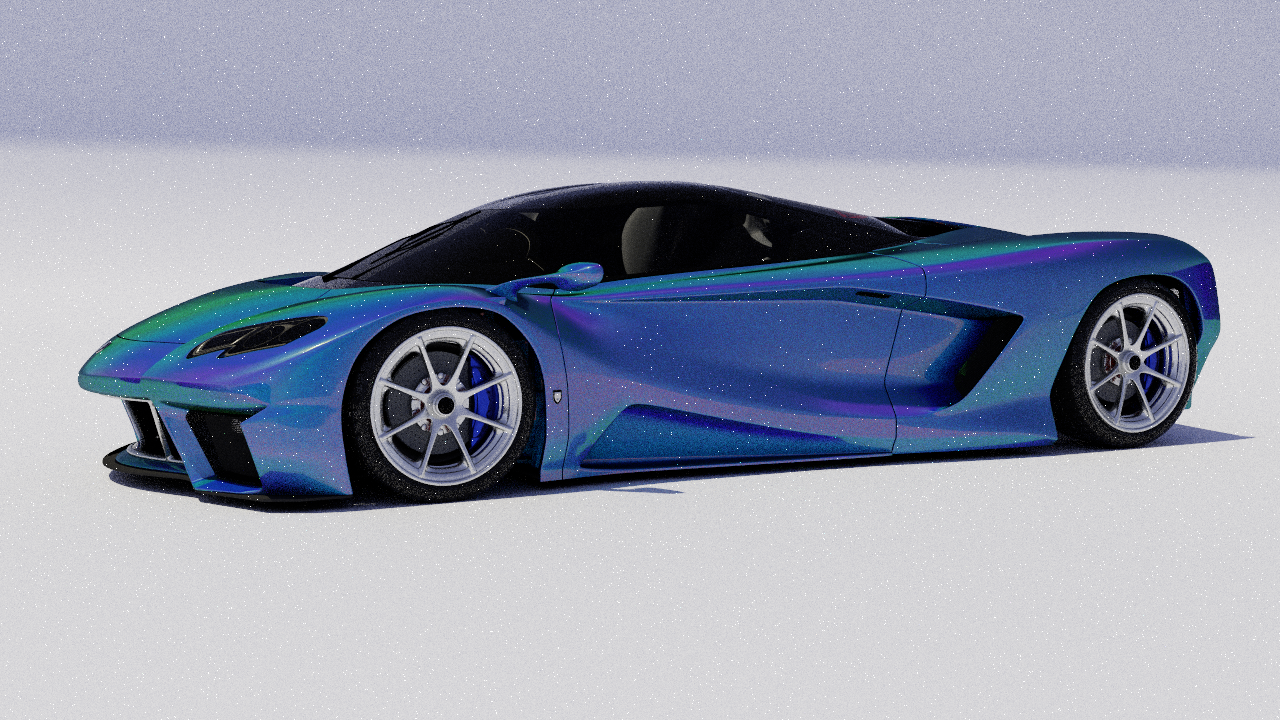
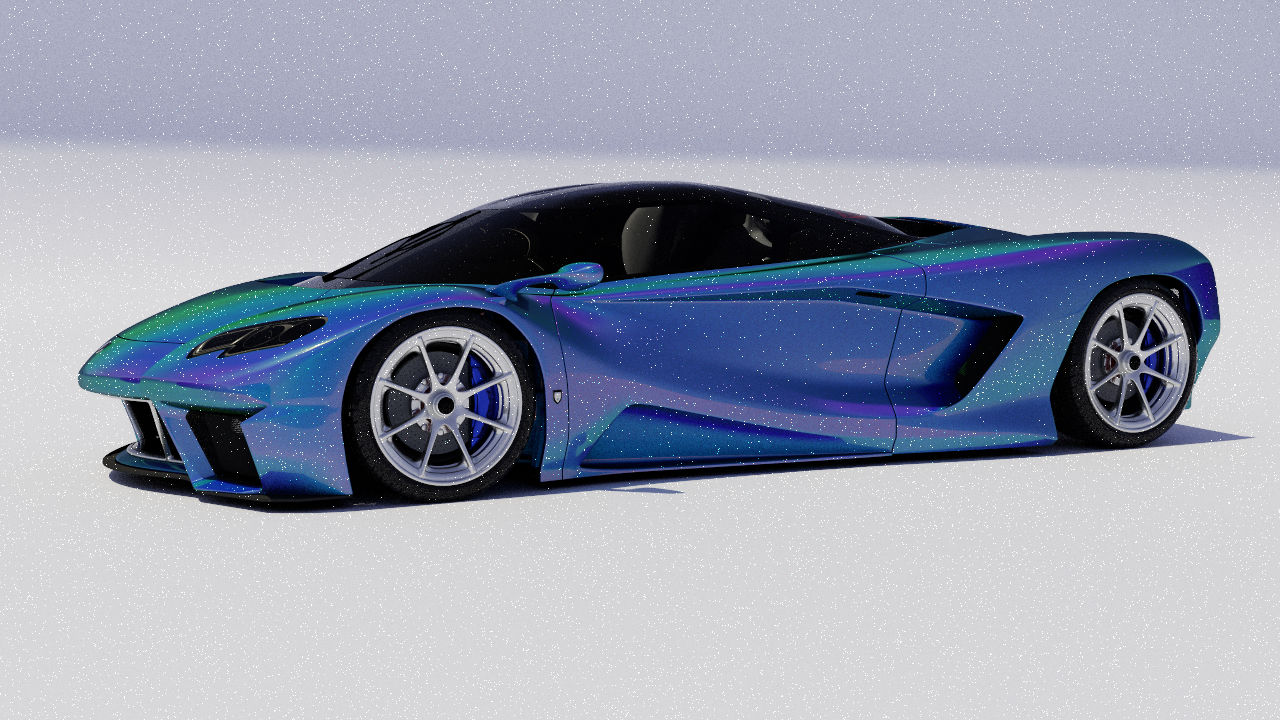
docs: portfolio README with rendered gallery + refreshed reference images
Rewrite the top-level README as a showcase: hero gallery (HTML grid) tying
each render to the technique it demonstrates (measured BRDF, subsurface,
layered coat, SAH BVH/IBL, GI, core BSDFs), feature highlights, M1-M4 status.
Re-render all anchor + showcase reference images at unified gallery quality
with the optimized build.

Changed region(s): [[0.5312, 0.5806, 0.5938, 0.6111], [0.5, 0.55, 0.5312, 0.5806]]

diff --git a/README.md b/README.md
@@ -1,81 +1,96 @@
 # YaoRay
 
-YaoRay is a learning-oriented, engineering-grade offline path tracer focused on physically based rendering, clean architecture, and future CUDA acceleration. It consumes PBRT v4 scene files and produces HDR images via a multi-threaded CPU backend.
+**A physically based offline path tracer that consumes PBRT v4 scenes and renders them on a multi-threaded CPU backend** — with faithful, from-scratch implementations of advanced light-transport and material models (stochastic layered BSDFs, tabulated measured BRDFs, and separable subsurface scattering), each validated against the original papers and real PBRT v4 reference scenes.
 
-This repository is a rewrite of the previous ToyRender experiment. The old code is preserved on `archive/toyrender-before-yaoray`; the new project starts from a clean architecture.
+C++20 · CMake/Ninja · multi-threaded · SAH BVH · MIS · RGB
 
-![Dining room reference render](docs/architecture/dining-room.png)
+<p align="center">
+  <img src="docs/architecture/sportscar.png" width="88%"><br>
+  <sub><b>Measured BRDF</b> — a faithful port of Dupuy &amp; Jakob 2018 tabulated BRDFs renders the iridescent measured car paint of mmp's <code>sportscar</code> scene (data-driven importance sampling, spectral→RGB).</sub>
+</p>
 
-*Bitterli's [dining-room](https://benedikt-bitterli.me/resources/) scene rendered with the M1 pipeline at 1280×720 / 64 spp / max-depth 65.*
+<table>
+  <tr>
+    <td width="33%"><img src="docs/architecture/sssdragon.png" width="100%"><br><sub><b>Subsurface scattering</b> — separable tabulated BSSRDF (Habel et al. photon beam diffusion) on the <code>sssdragon</code> "Skin1" medium.</sub></td>
+    <td width="33%"><img src="docs/architecture/killeroo-coated.png" width="100%"><br><sub><b>Layered material</b> — stochastic two-layer BSDF (Guo et al. 2018): a smooth dielectric coat over a gold conductor base.</sub></td>
+    <td width="33%"><img src="docs/architecture/coated-showcase.png" width="100%"><br><sub><b>Layered BSDF sweep</b> — coated-diffuse and coated-conductor spheres with Beer–Lambert coat absorption.</sub></td>
+  </tr>
+  <tr>
+    <td width="33%"><img src="docs/architecture/barcelona-pavilion.png" width="100%"><br><sub><b>SAH BVH + IBL</b> — mmp's Barcelona Pavilion: parallel SAH BVH, glass/metal, HDRI environment lighting.</sub></td>
+    <td width="33%"><img src="docs/architecture/dining-room.png" width="100%"><br><sub><b>Global illumination</b> — Bitterli's dining-room: MIS path tracing, area + window lighting, textures.</sub></td>
+    <td width="33%"><img src="docs/architecture/material_studio.png" width="100%"><br><sub><b>Core BSDFs</b> — diffuse, conductor, dielectric, thin-dielectric and measured materials under one HDRI.</sub></td>
+  </tr>
+</table>
 
-## Current Status
+---
 
-M1, M2, and M3 are complete. M3 delivered real stochastic layered BSDFs (`coateddiffuse`/`coatedconductor`, killeroo-coated scene) and real Dupuy & Jakob 2018 measured BRDFs (isotropic; spectral→RGB; data-driven importance sampling, sportscar scene). M4 (subsurface scattering / CUDA per the roadmap) is next. The renderer handles:
+## What it does
 
-- A two-layer pipeline: `PbrtScene → RenderSceneIR → Backend`.
-- A multi-threaded CPU path tracer with SAH-binned BVH (parallel construction, deterministic), MIS over BSDF / area-light / environment samples, Russian-roulette termination, ACES/Reinhard/identity tone mapping, and PNG output.
-- Real PBRT v4 scenes including Benedikt Bitterli's CC-BY dining-room and Matt Pharr's Barcelona Pavilion (see the [showcase](#showcase-scenes) below).
+YaoRay parses a `.pbrt` v4 scene into a faithful AST, compiles it to a flat, GPU-friendly intermediate representation, and ray-traces it with a production-style CPU path tracer. The emphasis throughout is **correctness you can verify** — every advanced feature is reproduced from its source paper and checked with unit tests (energy conservation / white-furnace, normalization, MIS consistency, sampler↔pdf agreement) *and* against the matching PBRT v4 reference scene.
 
-See `docs/architecture/overview.md` for the supported PBRT v4 directive surface and what's planned for M2+.
+### Light transport
+- Multi-threaded path tracer with **multiple importance sampling** across BSDF, area-light, and environment-light strategies.
+- **SAH-binned BVH** (12 buckets) with deterministic, parallel top-down construction.
+- Russian-roulette termination; ACES / Reinhard / identity tone mapping; HDRI environment importance sampling.
+
+### Materials (all real, not aliased)
+- **Core BSDFs:** diffuse, conductor/metal (GGX), dielectric/glass, thin-dielectric, diffuse-transmission.
+- **Layered (`coateddiffuse` / `coatedconductor`):** a stochastic position-free two-layer walk (Guo et al. 2018) — rough dielectric coat + Beer–Lambert absorbing medium + diffuse/conductor base, with MIS-consistent `sample`/`f`/`pdf`.
+- **Measured (`measured`):** a faithful port of Dupuy & Jakob 2018 `.bsdf` tensor files — `PiecewiseLinear2D` warps, two-stage luminance→VNDF importance sampling, spectral→RGB.
+- **Subsurface (`subsurface`):** a separable tabulated BSSRDF driven by a photon beam diffusion profile, with probe-ray exit-point sampling integrated into the path tracer; direct `sigma_a`/`sigma_s` and the `Skin1` preset.
+
+### Frontend
+- PBRT v4 `trianglemesh` / `plymesh` (ASCII, little- and **big-endian** binary) / `sphere`; `imagemap` textures (PNG/JPEG/TGA/BMP/HDR/PFM/**EXR**) + normal maps; point / distant / spot / area / `infinite` (HDRI) lights.
+- A documented **graceful-degradation policy**: unsupported directives emit a named Warning and fall back to the nearest supported behavior rather than failing.
+
+## Status
+
+**Milestones M1–M4 complete** (≈340 unit tests + CTest scene-render gates, all green):
+
+| Milestone | Headline | Anchor scene |
+|---|---|---|
+| **M1** | PBRT v4 frontend + core BSDFs + textures | cornell / material-studio / dining-room |
+| **M2** | SAH BVH + parallel build | Barcelona Pavilion |
+| **M3** | Advanced Materials I: stochastic layered + Dupuy–Jakob measured | killeroo-coated · sportscar |
+| **M4** | Subsurface scattering (separable tabulated BSSRDF) | sssdragon |
+| **M5** | CUDA backend (bit-for-bit GPU port of the frozen CPU surface) | *planned* |
+
+North Star: complete PBRT v4 scene coverage on CPU, then port the frozen surface to CUDA.
 
 ## Build
 
-macOS/Linux:
-
 ```bash
-cmake -S . -B build -DBUILD_TESTING=ON
+# Configure once with an optimized build type (important: Ninja ignores --config).
+cmake -S . -B build -DBUILD_TESTING=ON -DCMAKE_BUILD_TYPE=Release
 cmake --build build
 ctest --test-dir build --output-on-failure
 ```
-
-Windows:
-
-```powershell
-cmake -S . -B build -DBUILD_TESTING=ON
-cmake --build build --config Release
-ctest --test-dir build --output-on-failure -C Release
-```
+On Windows with a multi-config generator, use `--config Release` on the build/test commands instead.
 
 ## Run
 
-After building, render any of the bundled showcase scenes:
-
-macOS/Linux:
-
 ```bash
-./build/yaoray --help
-./build/yaoray --version
-./build/yaoray render scenes/pbrt/hello_emissive/hello_emissive.pbrt --backend cpu
-./build/yaoray render scenes/pbrt/cornell_box_pbrt/cornell_box_pbrt.pbrt --backend cpu
 ./build/yaoray render scenes/pbrt/material_studio/material_studio.pbrt --backend cpu
-./build/yaoray render scenes/pbrt/texture_test/texture_test.pbrt --backend cpu
+./build/yaoray render scenes/pbrt/cornell_box_pbrt/cornell_box_pbrt.pbrt --backend cpu
+./build/yaoray render scenes/pbrt/coated_showcase/coated_showcase.pbrt --backend cpu
 ```
+(On Windows: `build\Release\yaoray.exe render ...`.) The output image lands at the path in the scene's `Film "string filename"` directive.
 
-Windows:
+## Showcase scenes
 
-```powershell
-build\Release\yaoray.exe --help
-build\Release\yaoray.exe --version
-build\Release\yaoray.exe render scenes\pbrt\hello_emissive\hello_emissive.pbrt --backend cpu
-build\Release\yaoray.exe render scenes\pbrt\cornell_box_pbrt\cornell_box_pbrt.pbrt --backend cpu
-build\Release\yaoray.exe render scenes\pbrt\material_studio\material_studio.pbrt --backend cpu
-build\Release\yaoray.exe render scenes\pbrt\texture_test\texture_test.pbrt --backend cpu
-```
+The first group is committed and exercised by CTest; the rest are large third-party PBRT v4 assets under permissive licenses, linked via per-scene download workflows (Git LFS, gitignored) rather than redistributed.
 
-The output PNG lands at the path declared in the scene's `Film "string filename"` directive (typically inside an `out/` directory next to the scene file).
-
-## Showcase Scenes
-
-| Scene | Purpose |
+| Scene | Demonstrates |
 |---|---|
-| `scenes/pbrt/hello_emissive/` | Smallest end-to-end demo: trianglemesh + area light. |
-| `scenes/pbrt/cornell_box_pbrt/` | `Shape "sphere"` + `LightSource "point"` + classic mirror/glass spheres. |
-| `scenes/pbrt/material_studio/` | HDRI environment + each supported BSDF on a row of spheres. |
-| `scenes/pbrt/texture_test/` | Texture wrap modes + normal-map data path validation. |
-| `scenes/pbrt/dining_room/` | Bitterli's PBRT v4 dining-room (asset downloaded separately; see the per-scene README for the curl/unzip workflow). |
-| `scenes/pbrt/barcelona_pavilion/` | mmp's PBRT v4 Barcelona Pavilion — M2 anchor scene (asset downloaded separately via `git lfs`; see the per-scene README for the sparse-checkout workflow). |
-| `scenes/pbrt/killeroo_coated/` | mmp's PBRT v4 killeroo-coated — M3 layered-materials anchor (asset via `git lfs`; see the per-scene README). |
-| `scenes/pbrt/sportscar/` | mmp's PBRT v4 sportscar — M3 measured-BRDF anchor (asset via `git lfs`; see the per-scene README). |
+| `scenes/pbrt/cornell_box_pbrt/` | Spheres + point light + mirror/glass — the classic. |
+| `scenes/pbrt/material_studio/` | Every core BSDF on a row of spheres under an HDRI. |
+| `scenes/pbrt/coated_showcase/` | Layered `coateddiffuse` / `coatedconductor`. |
+| `scenes/pbrt/texture_test/` | Texture wrap modes + normal-map path. |
+| `scenes/pbrt/dining_room/` | Bitterli's dining-room — global illumination. |
+| `scenes/pbrt/barcelona_pavilion/` | mmp's Barcelona Pavilion — SAH BVH + IBL (M2 anchor). |
+| `scenes/pbrt/killeroo_coated/` | mmp's killeroo — layered gold coat (M3 anchor). |
+| `scenes/pbrt/sportscar/` | mmp's sportscar — measured iridescent paint (M3 anchor). |
+| `scenes/pbrt/sssdragon/` | mmp's sssdragon — subsurface scattering (M4 anchor). |
 
 ## Architecture
 
@@ -84,6 +99,10 @@ PBRT v4 scene  ──CompilePbrtScene──▶  RenderSceneIR  ──Backend.Pre
    (.pbrt)                              (flat tables)                       (BVH + buffers)
 ```
 
-The PBRT layer parses `.pbrt` files into `PbrtScene`. The render layer compiles that into `RenderSceneIR` — a flat, GPU-friendly layout with indexed vertices, primitives, materials, textures, and lights. The CPU backend prepares the IR into a `CpuPreparedScene` (BVH + texture cache + light distributions); a future CUDA backend will plug into the same two-stage interface.
+The PBRT layer parses `.pbrt` files into `PbrtScene`. The render layer compiles that into `RenderSceneIR` — a flat, GPU-friendly layout (indexed vertices, primitives, materials, textures, lights). The CPU backend prepares the IR into a `CpuPreparedScene` (BVH + texture cache + light distributions); a future CUDA backend plugs into the same two-stage interface.
 
-See `docs/architecture/overview.md` for the complete supported PBRT v4 surface, the documented material degradation policy, and the M2+ roadmap.
+See [`docs/architecture/overview.md`](docs/architecture/overview.md) for the complete supported PBRT v4 surface, the degradation policy, and the milestone roadmap. This project is a clean-architecture rewrite of an earlier experiment (`ToyRender`), preserved on the `archive/toyrender-before-yaoray` branch.
+
+---
+
+<sub>Reference scenes © their respective authors (Benedikt Bitterli; Matt Pharr / pbrt-v4-scenes), used under their original licenses for validation; not redistributed here. YaoRay is a personal learning/research renderer.</sub>
